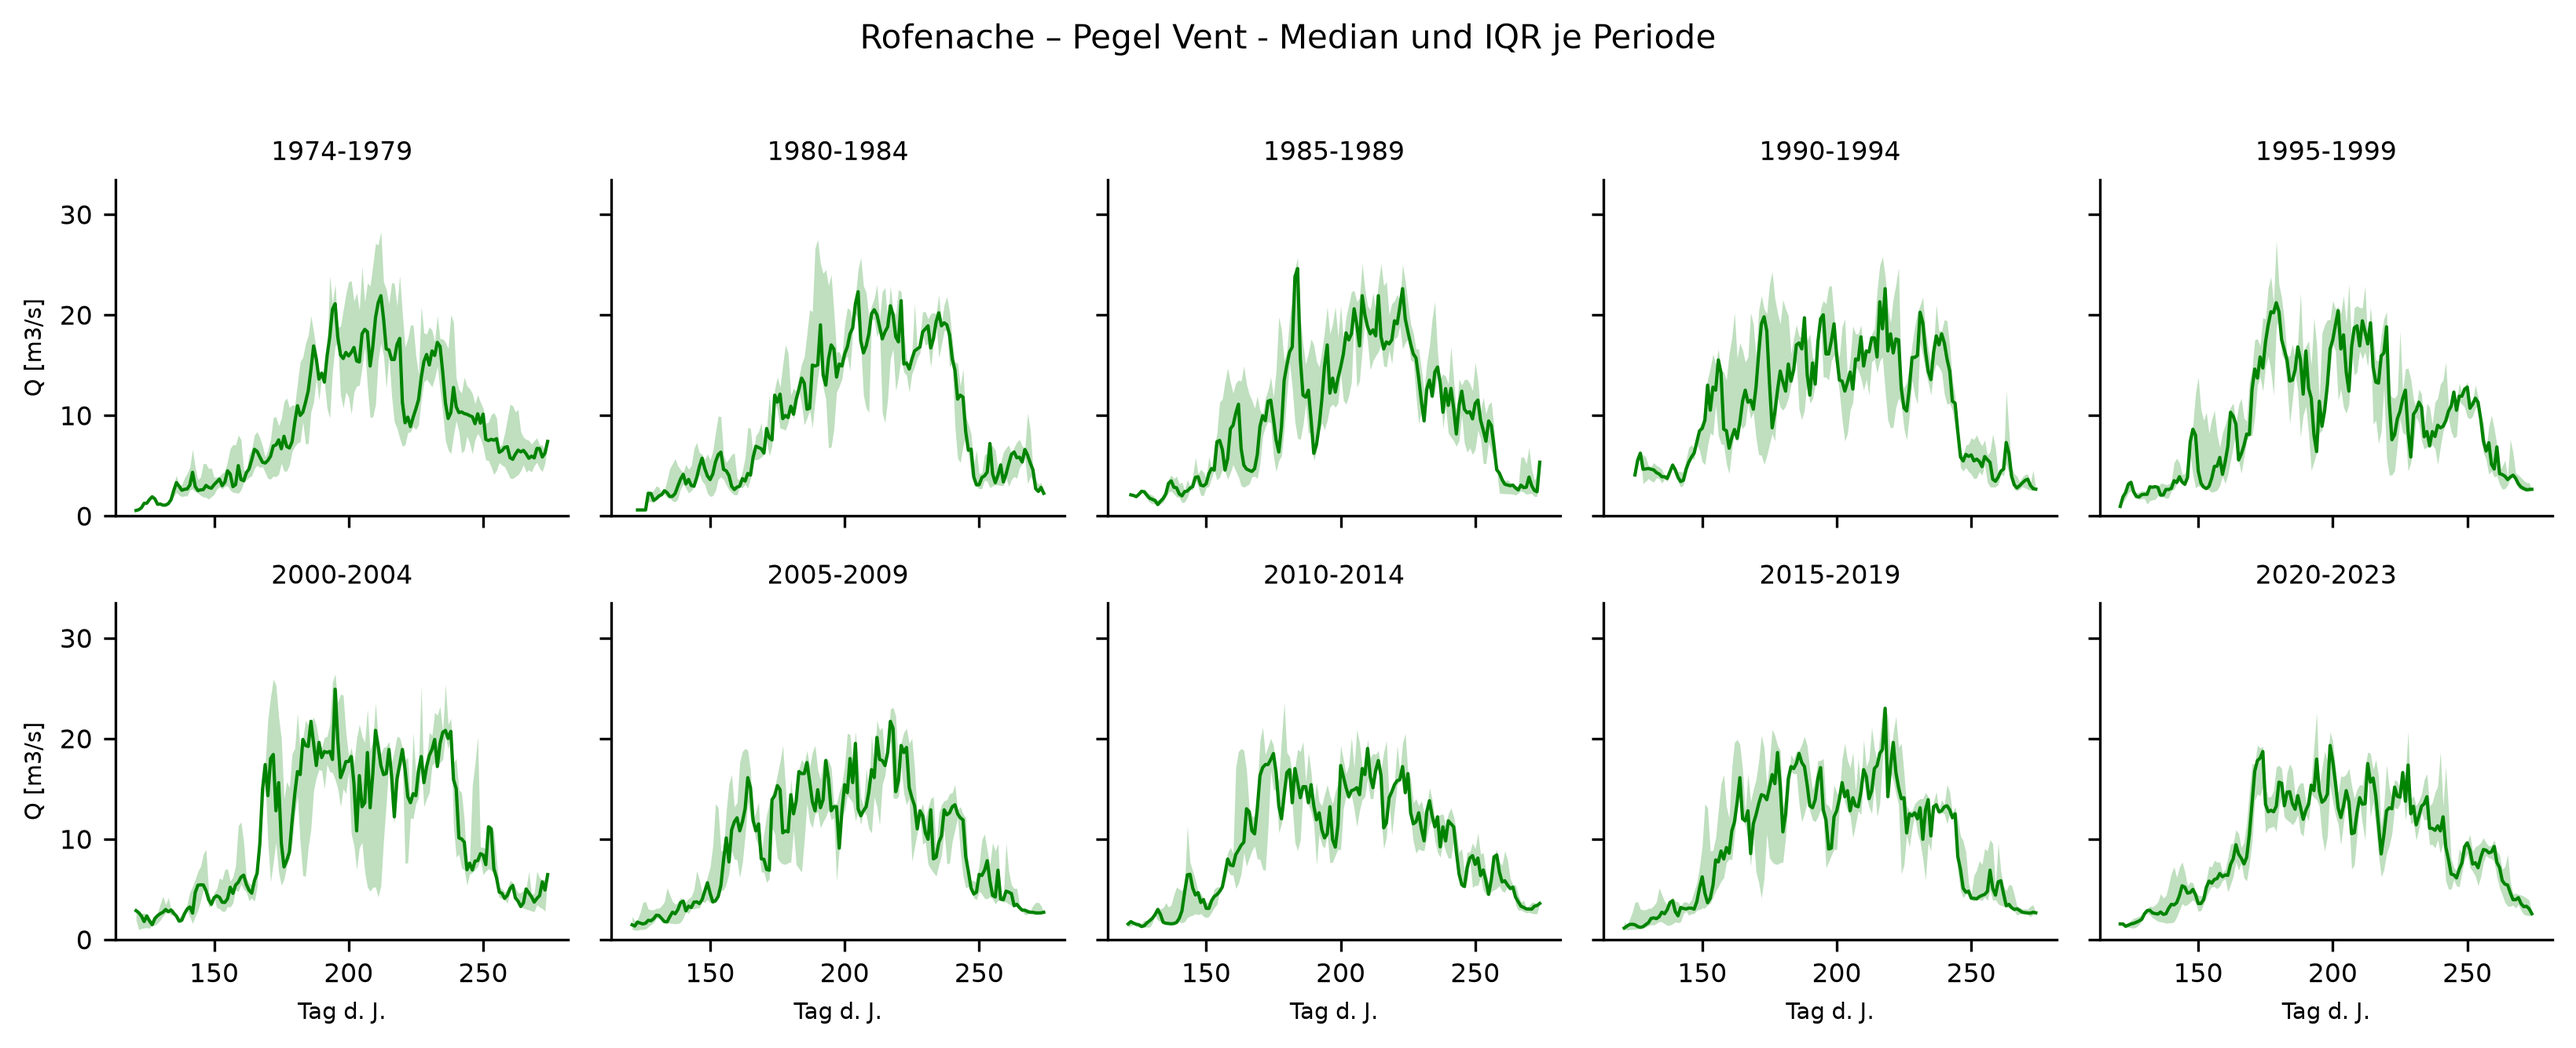
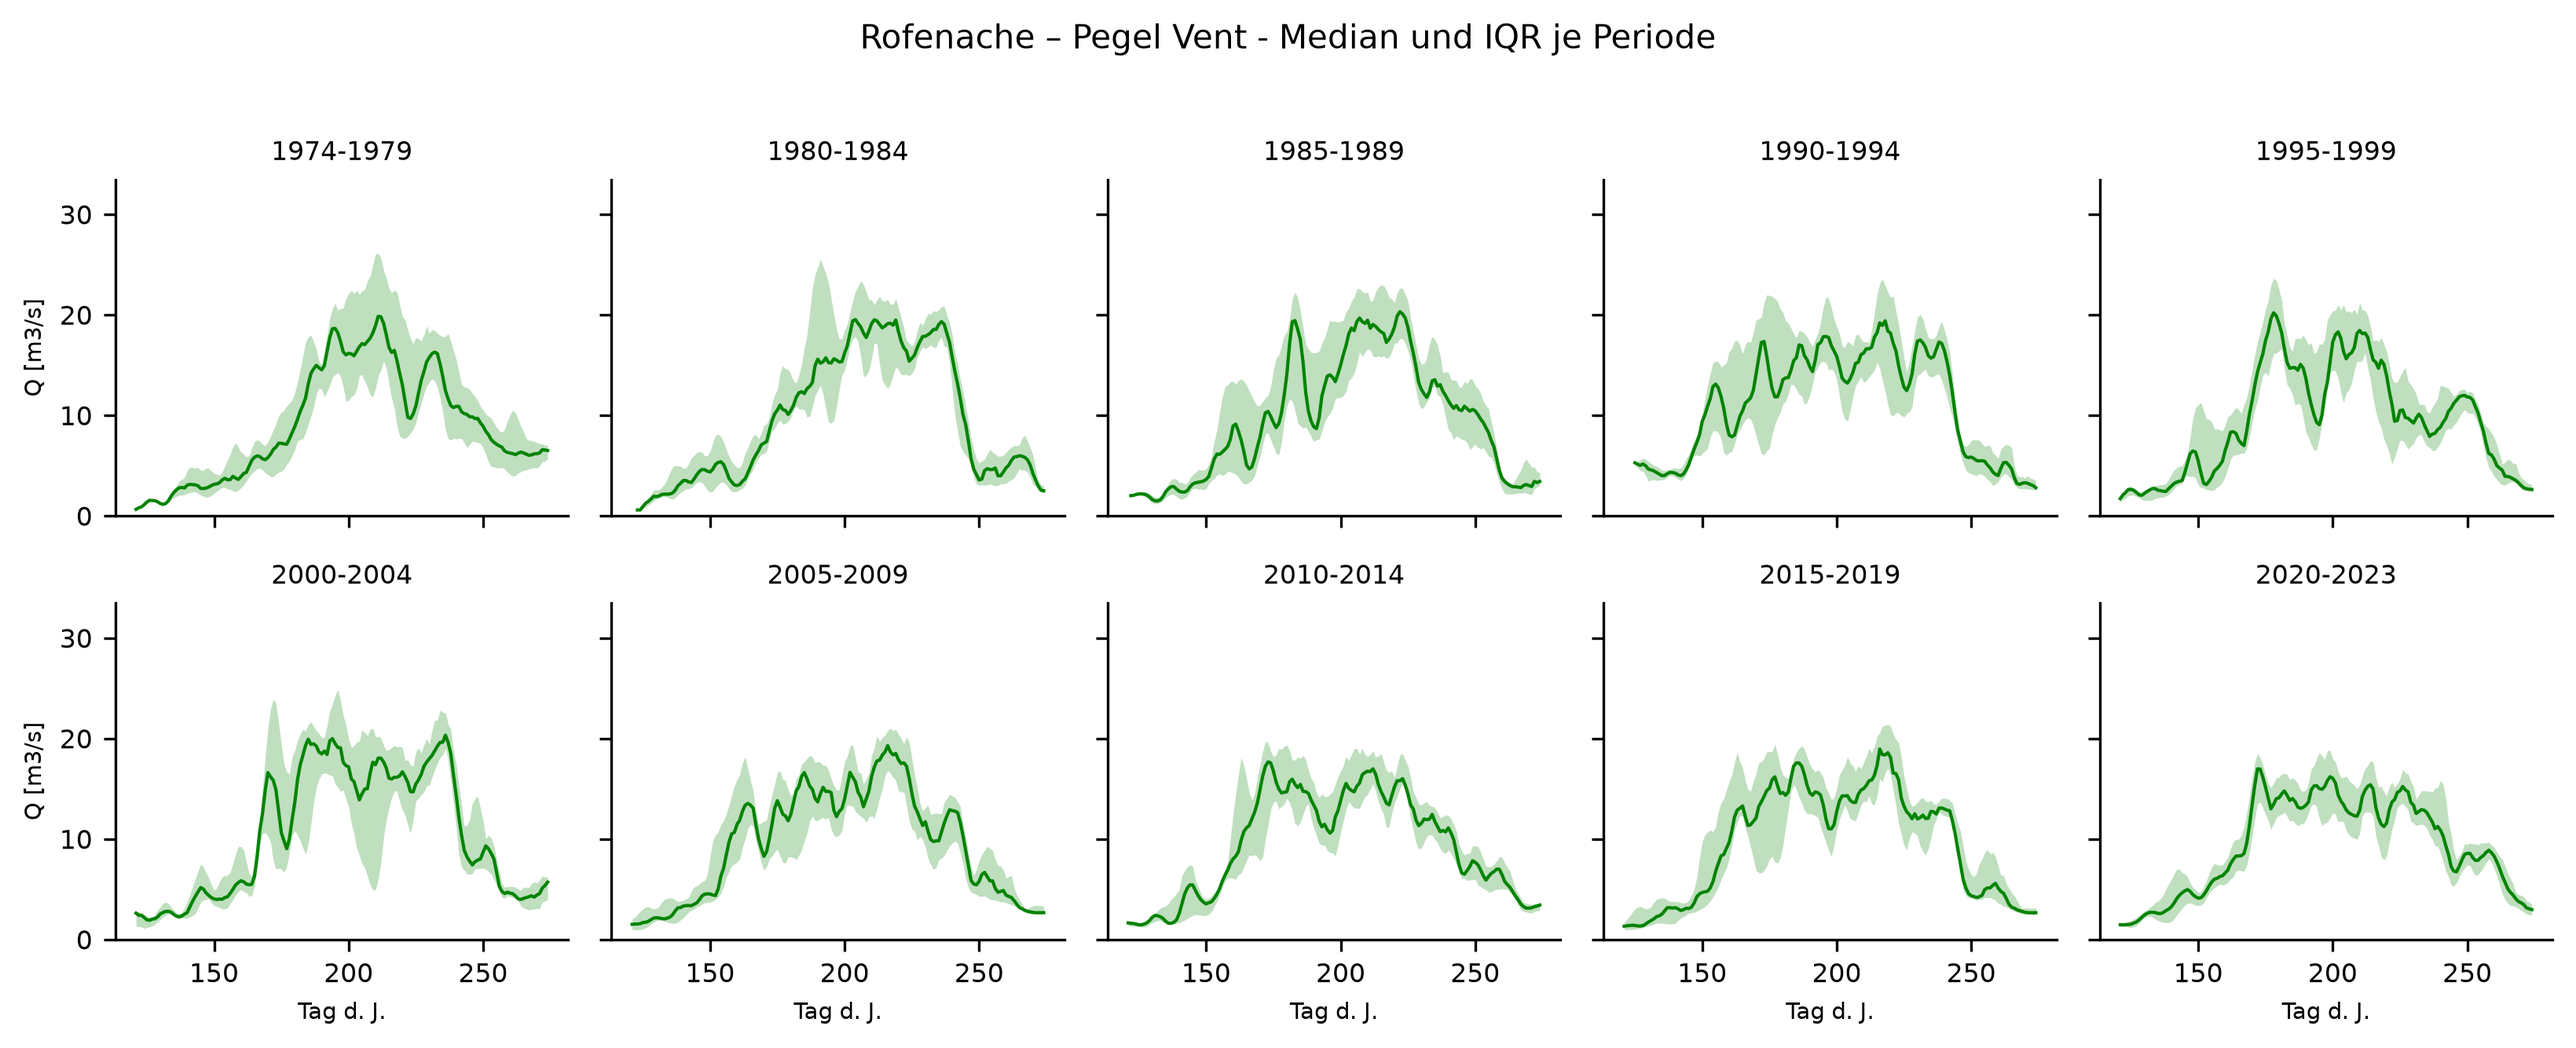
Restyle fig9/fig9b with IQR shading, light smoothing, add fig7 gradient overlay
fig9b_hump_overlay: add IQR shading per period (matching the reference
layout), light 5-day smoothing, move a/b panel labels above the legend
so they no longer overlap.

fig9_smallmult_*: light 5-day smoothing on the median/IQR curves for
readability.

fig7_seasonal_by_period_gradient (new): all 10 period median curves
overlaid per catchment, colour-graded early-to-late, lightly smoothed -
shows directly whether the seasonal shape drifts gradually across
periods rather than jumping around.

diff --git a/scripts/04_make_figures.py b/scripts/04_make_figures.py
@@ -124,6 +124,9 @@ def fig_small_multiples(df, col, color, title, outfile):
             continue
         g = sub.groupby("doy")[col]
         med, q25, q75 = g.median(), g.quantile(0.25), g.quantile(0.75)
+        med = med.rolling(5, center=True, min_periods=3).mean()
+        q25 = q25.rolling(5, center=True, min_periods=3).mean()
+        q75 = q75.rolling(5, center=True, min_periods=3).mean()
         ax.fill_between(med.index, q25, q75, color=color, alpha=0.25, linewidth=0)
         ax.plot(med.index, med.values, color=color, linewidth=1)
         ax.set_title(lab, fontsize=8)
@@ -135,6 +138,56 @@ def fig_small_multiples(df, col, color, title, outfile):
     fig.suptitle(title, fontsize=10, y=1.02)
     fig.tight_layout()
     fig.savefig(f"{OUT_DIR}/{outfile}", dpi=300, bbox_inches="tight")
+    plt.close(fig)
+
+
+# ---------------------------------------------------------------- Figure 7 --
+def fig_seasonal_by_period_gradient(df):
+    """All 10 five-year-period median curves (lightly smoothed) overlaid in
+    one panel per catchment, colour-graded early (dark) to late (light).
+    Lets you see directly whether the shape/timing drifts gradually across
+    periods or jumps around - a single "average of the smoothed period
+    curves" plot would hide exactly that."""
+    d = df.copy()
+    d["doy"] = d["time"].dt.dayofyear
+    d["year"] = d["time"].dt.year
+
+    def period_label(y):
+        for a, b in PERIOD_BINS:
+            if a <= y <= b:
+                return f"{a}-{b}"
+        return None
+
+    d["periode"] = d["year"].apply(period_label)
+    period_labels = [f"{a}-{b}" for a, b in PERIOD_BINS]
+
+    def shades(base_hex, n):
+        base = np.array(mcolors.to_rgb(base_hex))
+        white = np.array([1, 1, 1])
+        fracs = np.linspace(0.0, 0.75, n)  # early=dark (base color), late=light
+        return [tuple(base * (1 - f) + white * f) for f in fracs]
+
+    panels = [("Q_Vernagt", "Vernagtbach", C_VERNAGT_PEAK, "a"),
+              ("Q_Niedertalbach", "Rofenache – Pegel Vent", C_NIEDER_PEAK, "b")]
+    fig, axes = plt.subplots(1, 2, figsize=(11, 4.6), dpi=300, sharex=True)
+    for ax, (col, title, base_color, lab) in zip(axes, panels):
+        colors = shades(base_color, len(period_labels))
+        for pl, c in zip(period_labels, colors):
+            sub = d[d["periode"] == pl].dropna(subset=[col])
+            if len(sub) == 0:
+                continue
+            med = sub.groupby("doy")[col].median()
+            med = med.reindex(range(med.index.min(), med.index.max() + 1))
+            med = med.rolling(5, center=True, min_periods=3).mean()
+            ax.plot(med.index, med.values, color=c, linewidth=1.2, label=pl)
+        ax.set_title(title, fontsize=10)
+        ax.text(0.0, 1.1, lab, transform=ax.transAxes, fontsize=11, fontweight="bold", va="top", clip_on=False)
+        ax.set_xlabel("Tag des Jahres")
+    axes[0].set_ylabel(r"Median $Q$ [m$^3$ s$^{-1}$]")
+    handles, labels = axes[0].get_legend_handles_labels()
+    fig.legend(handles, labels, loc="upper center", bbox_to_anchor=(0.5, 1.1), ncol=5, frameon=False, fontsize=7.5)
+    fig.tight_layout(rect=[0, 0, 1, 0.88])
+    fig.savefig(f"{OUT_DIR}/fig7_seasonal_by_period_gradient.png", dpi=300, bbox_inches="tight")
     plt.close(fig)
 
 
@@ -152,18 +205,32 @@ def fig_hump_overlay(df):
     panels = [("Q_Vernagt", "Vernagtbach", C_VERNAGT_PEAK, "a"),
               ("Q_Niedertalbach", "Rofenache – Pegel Vent", C_NIEDER_PEAK, "b")]
 
-    fig, axes = plt.subplots(1, 2, figsize=(10, 4.2), dpi=300, sharey=True)
+    def shades(base_hex, n):
+        base = np.array(mcolors.to_rgb(base_hex))
+        white = np.array([1, 1, 1])
+        fracs = np.linspace(0.55, 0.0, n)
+        return [tuple(base * (1 - f) + white * f) for f in fracs]
+
+    smooth_win = 5  # light smoothing only, for display - not used in any of the trend stats above
+
+    fig, axes = plt.subplots(1, 2, figsize=(10, 4.4), dpi=300, sharey=True)
     for ax, (col, title, base_color, lab) in zip(axes, panels):
-        for (y0, y1), ls, alpha, label in [(early, "--", 0.9, f"{early[0]}-{early[1]}"),
-                                            (late, "-", 1.0, f"{late[0]}-{late[1]}")]:
+        light_c, dark_c = shades(base_color, 2)
+        for (y0, y1), c, alpha, label in [(early, light_c, 0.9, f"{early[0]}-{early[1]}"),
+                                           (late, dark_c, 1.0, f"{late[0]}-{late[1]}")]:
             sub = d[(d["year"] >= y0) & (d["year"] <= y1)].dropna(subset=[col])
-            med = sub.groupby("doy")[col].median()
-            med_norm = med / med.max()
-            ax.plot(med.index, med_norm.values, color=base_color, linewidth=1.6, linestyle=ls,
-                    alpha=alpha, label=label)
+            g = sub.groupby("doy")[col]
+            med, q25, q75 = g.median(), g.quantile(0.25), g.quantile(0.75)
+            norm = med.max()
+            med, q25, q75 = med / norm, q25 / norm, q75 / norm
+            med_s = med.rolling(smooth_win, center=True, min_periods=3).mean()
+            q25_s = q25.rolling(smooth_win, center=True, min_periods=3).mean()
+            q75_s = q75.rolling(smooth_win, center=True, min_periods=3).mean()
+            ax.fill_between(med_s.index, q25_s, q75_s, color=c, alpha=0.25, linewidth=0)
+            ax.plot(med_s.index, med_s.values, color=c, linewidth=1.8, alpha=alpha, label=label)
         ax.set_title(title, fontsize=10)
         ax.set_xlabel("Tag des Jahres")
-        ax.text(0.02, 0.96, lab, transform=ax.transAxes, fontsize=11, fontweight="bold", va="top")
+        ax.text(0.0, 1.1, lab, transform=ax.transAxes, fontsize=11, fontweight="bold", va="top", clip_on=False)
         ax.legend(loc="upper left", frameon=False)
     axes[0].set_ylabel("Median Q, normiert\nauf Perioden-Maximum")
     fig.tight_layout()
@@ -235,4 +302,5 @@ if __name__ == "__main__":
     fig_flow_timing_cumulative(df)
     fig_small_multiples(df, "Q_Vernagt", C_VERNAGT_PEAK, "Vernagtbach - Median und IQR je Periode", "fig9_smallmult_vernagt.png")
     fig_small_multiples(df, "Q_Niedertalbach", C_NIEDER_PEAK, "Rofenache – Pegel Vent - Median und IQR je Periode", "fig9_smallmult_rofenache.png")
+    fig_seasonal_by_period_gradient(df)
     fig_hump_overlay(df)
